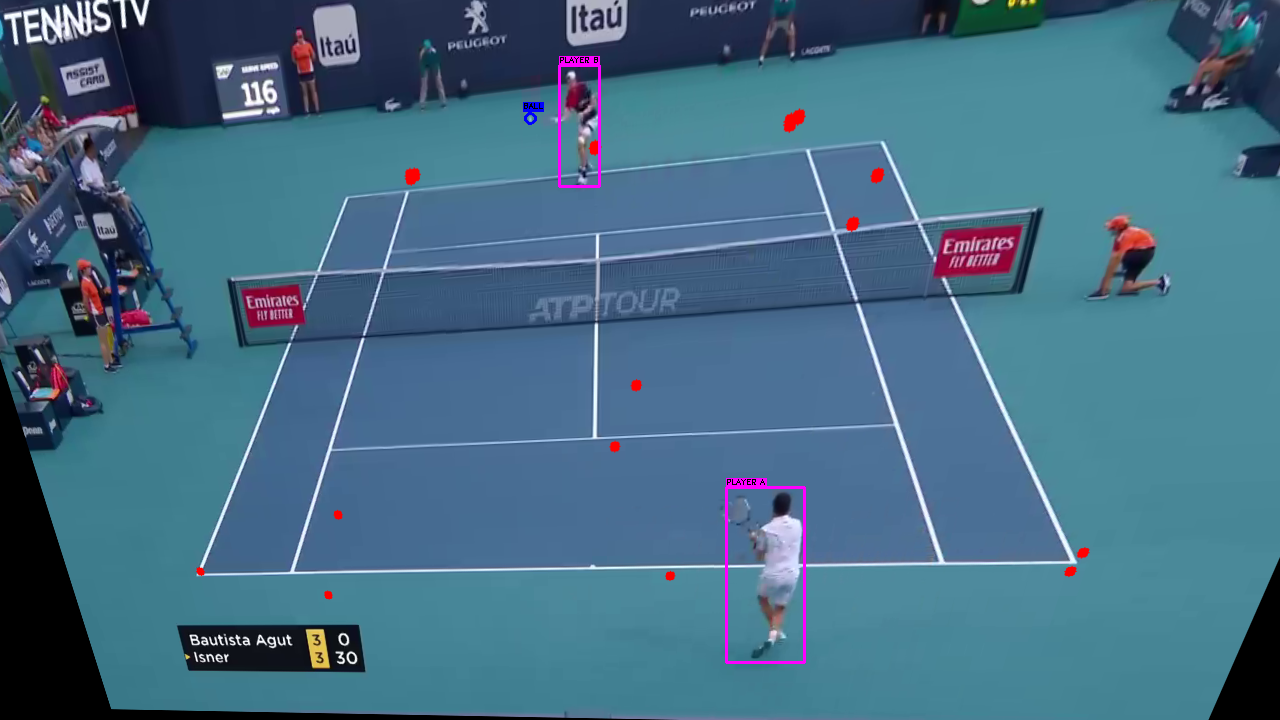
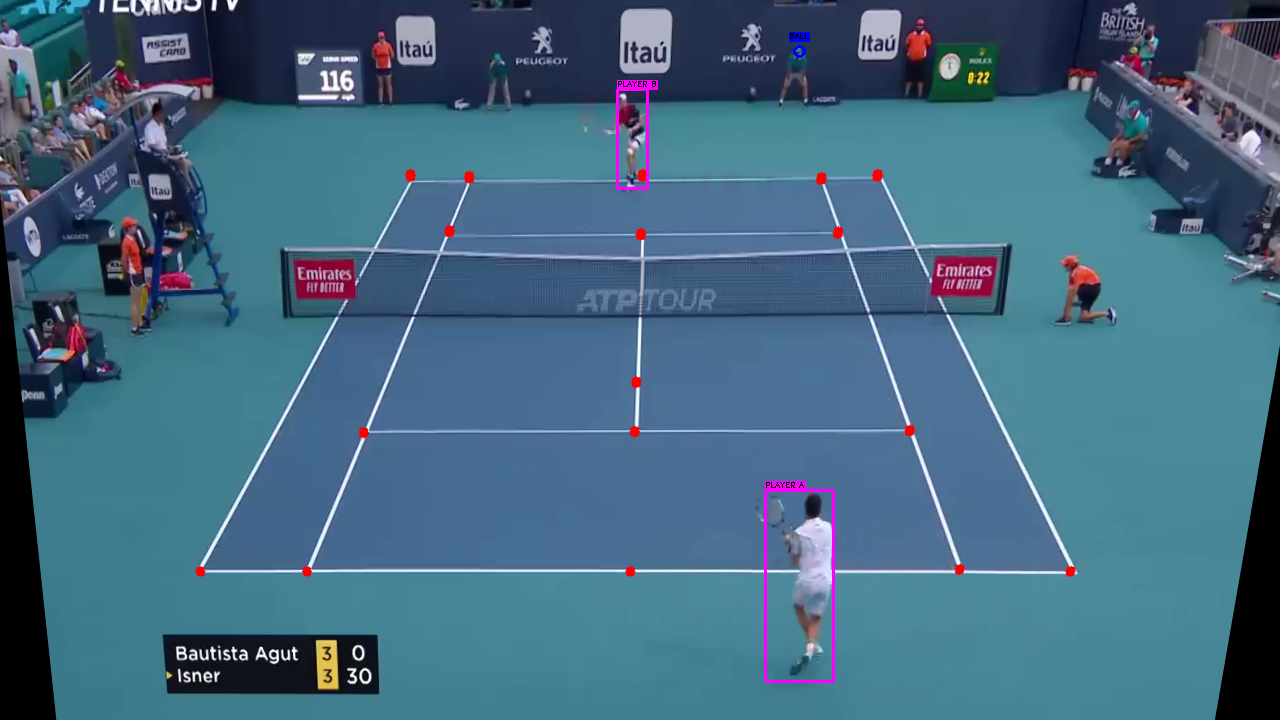
adding resnet design

diff --git a/keypoints_extraction_resnet_modified/resnet50_modified.py b/keypoints_extraction_resnet_modified/resnet50_modified.py
@@ -1,0 +1,59 @@
+import torch
+from torch.utils.data import Dataset, DataLoader
+from torchvision import models, transforms
+import json
+import cv2
+import numpy as np
+import torch.nn as nn
+
+
+class ChannelAttention(nn.Module):
+    def __init__(self, in_planes, ratio=16):
+        super(ChannelAttention, self).__init__()
+        self.avg_pool = nn.AdaptiveAvgPool2d(1)
+        self.max_pool = nn.AdaptiveMaxPool2d(1)
+        self.fc1 = nn.Conv2d(in_planes, in_planes // ratio, 1, bias=False)
+        self.relu1 = nn.ReLU()
+        self.fc2 = nn.Conv2d(in_planes // ratio, in_planes, 1, bias=False)
+        self.sigmoid = nn.Sigmoid()
+
+    def forward(self, x):
+        avg_out = self.fc2(self.relu1(self.fc1(self.avg_pool(x))))
+        max_out = self.fc2(self.relu1(self.fc1(self.max_pool(x))))
+        out = avg_out + max_out
+        return self.sigmoid(out)
+
+class SpatialAttention(nn.Module):
+    def __init__(self):
+        super(SpatialAttention, self).__init__()
+        self.conv1 = nn.Conv2d(2, 1, kernel_size=7, padding=3)
+        self.sigmoid = nn.Sigmoid()
+
+    def forward(self, x):
+        avg_out = torch.mean(x, dim=1, keepdim=True)
+        max_out, _ = torch.max(x, dim=1, keepdim=True)
+        x = torch.cat([avg_out, max_out], dim=1)
+        x = self.conv1(x)
+        return self.sigmoid(x)
+
+class KeypointResNet50(nn.Module):
+    def __init__(self):
+        super(KeypointResNet50, self).__init__()
+        self.backbone = models.resnet50(pretrained=True)
+        self.backbone.fc = nn.Identity()
+        self.conv = nn.Conv2d(2048, 2048, kernel_size=1, stride=1, padding=0, bias=False)
+        self.channel_attention = ChannelAttention(2048)
+        self.spatial_attention = SpatialAttention()
+        self.fc = nn.Linear(2048, 14 * 2)
+
+    def forward(self, x):
+        x = self.backbone(x)
+        x = x.unsqueeze(2).unsqueeze(3)
+        x = self.conv(x)
+        x = self.channel_attention(x) * x
+        x = self.spatial_attention(x) * x
+
+        x = nn.functional.adaptive_avg_pool2d(x, (1, 1))
+        x = torch.flatten(x, 1)
+        x = self.fc(x)
+        return x

diff --git a/main.py b/main.py
@@ -66,7 +66,7 @@ def main():
     yolo_player_model_path = "models/yolo_player_model_test.pt"
     yolo_ball_model_path = "models/yolo_ball_model.pt"
     court_model_path = "models/court_model.pt"
-    court_model_resnet_path = "models/keypoints_model.pth"
+    court_model_resnet_path = "models/keypoints_model.pt"
     ball_track_model_path = "models/ball_tracking_model.pt"
     bounce_tracking_model_path = "models/bounce_tracking_model.cbm"
 
@@ -74,7 +74,7 @@ def main():
     device = 'cuda' if torch.cuda.is_available() else 'cpu'
 
     # --- Random Choice of Input Image and Video --- #
-    image_number = random.randint(1,24)
+    image_number = random.randint(1,25)
     video_number = random.randint(1,6)
 
     # --- Input Image Paths --- #
@@ -123,6 +123,7 @@ def main():
     # Keypoints with ResNet50
     court_line_detector_resnet = CourtLineDetectorResNet(court_model_resnet_path)
     court_keypoints_resnet = court_line_detector_resnet.predict(read_image(input_image_path))
+    print(court_keypoints_resnet)
     court_keypoints_resnet_img  = court_line_detector_resnet.draw_keypoints(read_image(input_image_path), court_keypoints_resnet)
     save_image(output_keypoints_image_resnet, court_keypoints_resnet_img)
 

diff --git a/court_line_detector/court_line_detector_resnet.py b/court_line_detector/court_line_detector_resnet.py
@@ -3,11 +3,13 @@ import torchvision.transforms as transforms
 import cv2
 from torchvision import models
 import numpy as np
+from keypoints_extraction_resnet_modified import KeypointResNet50
 
 class CourtLineDetectorResNet:
     def __init__(self, model_path):
-        self.model = models.resnet50(pretrained=True)
-        self.model.fc = torch.nn.Linear(self.model.fc.in_features, 14*2) 
+        self.model = KeypointResNet50()
+        #self.model = models.resnet50(pretrained=True)
+        #self.model.fc = torch.nn.Linear(self.model.fc.in_features, 14*2) 
         self.model.load_state_dict(torch.load(model_path, map_location='cpu'))
         self.transform = transforms.Compose([
             transforms.ToPILImage(),

diff --git a/keypoints_extraction_resnet_modified/__init__.py b/keypoints_extraction_resnet_modified/__init__.py
@@ -1,0 +1,1 @@
+from .resnet50_modified import KeypointResNet50
